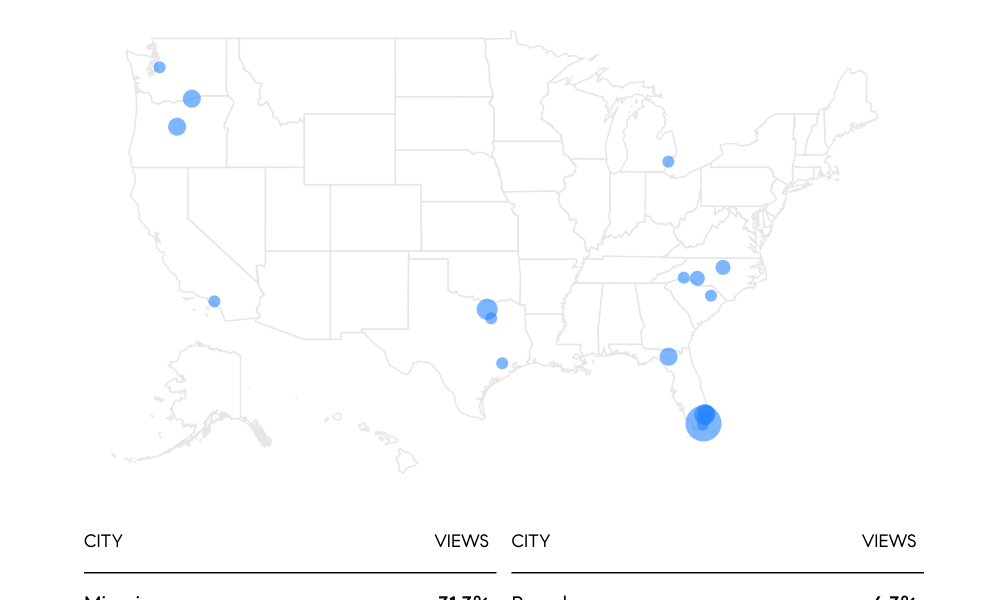
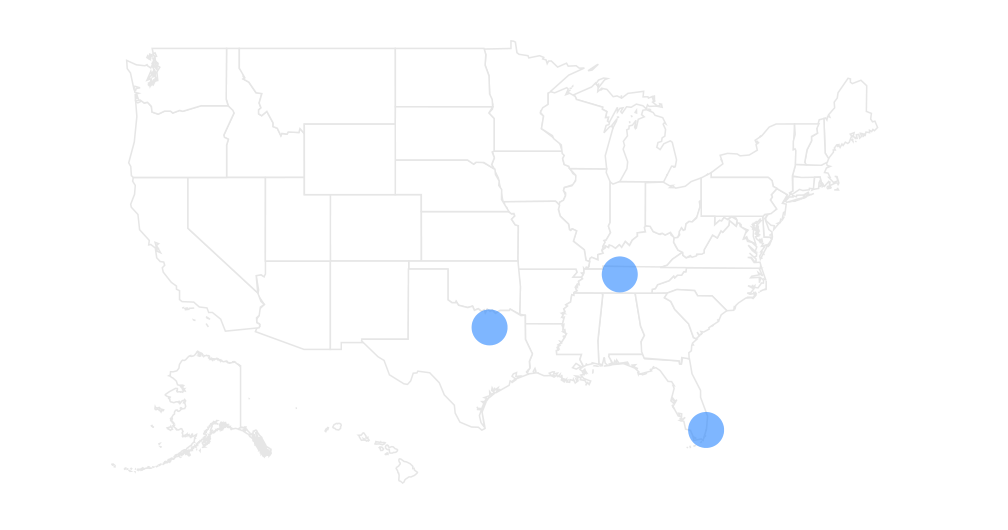
Update Anna Jimenez 12040 SW 10th Ter (Oct 21-27, 2026): DOM 13, 3 showings, Spanish feedback, updated map, social 0

diff --git a/12040-sw-10th-ter/index.html b/12040-sw-10th-ter/index.html
@@ -102,7 +102,7 @@
                 <div class="meta-item">Miami, FL 33184 | MLS #A12106377 | $607,000</div>
                 <div class="meta-item">
                     <svg width="16" height="16" viewBox="0 0 24 24" fill="none" stroke="currentColor" stroke-width="2"><rect x="3" y="4" width="18" height="18" rx="2"/><path d="M16 2v4M8 2v4M3 10h18"/></svg>
-                    Período del Reporte: 12 Oct 2026 - 18 Oct 2026</div>
+                    Período del Reporte: 21 Oct 2026 - 27 Oct 2026</div>
             </div>
         </div>
         <div class="theme-toggle" onclick="toggleTheme()" title="Toggle Dark/Light Mode">
@@ -125,21 +125,21 @@
                 <div class="card">
                     <div class="card-label">Vistas Últimos 7 Días</div>
                     <div class="card-value">
-                        +839
+                        +420
                         <span class="card-change">Actualizado</span>
                     </div>
                 </div>
                 <div class="card">
                     <div class="card-label">Visitas Últimos 7 Días</div>
                     <div class="card-value">
-                        +1
+                        +3
                         <span class="card-change">Esta Semana</span>
                     </div>
                 </div>
                 <div class="card">
                     <div class="card-label">Días en el Mercado</div>
                     <div class="card-value">
-                        6
+                        13
                     </div>
                 </div>
             </div>
@@ -156,22 +156,22 @@
                 </div>
                 <div class="table-row">
                     <div class="metric-name">Vistas del Anuncio (En línea)</div>
-                    <div class="last-7">+839</div>
-                    <div class="grand-total">839</div>
+                    <div class="last-7">+420</div>
+                    <div class="grand-total">1,259</div>
                 </div>
                 <div class="table-row">
                     <div class="metric-name">Visitas Presenciales</div>
-                    <div class="last-7">+1</div>
-                    <div class="grand-total">1</div>
+                    <div class="last-7">+3</div>
+                    <div class="grand-total">4</div>
                 </div>
                 <div class="table-row">
                     <div class="metric-name">Correos Enviados (Abiertos)</div>
-                    <div class="last-7">+7,343</div>
-                    <div class="grand-total">7,343</div>
+                    <div class="last-7">+8,229</div>
+                    <div class="grand-total">15,572</div>
                 </div>
                 <div class="table-row">
                     <div class="metric-name">Vistas en Redes Sociales</div>
-                    <div class="last-7">+245</div>
+                    <div class="last-7">+0</div>
                     <div class="grand-total">245</div>
                 </div>
             </div>
@@ -183,7 +183,13 @@
                 <h2>Comentarios de Clientes y Agentes</h2>
             </div>
             <div class="card">
-                <div class="feedback-item">
+                                <div class="feedback-item">
+                    <div class="feedback-text">
+                        "Todos los visitantes comentaron que tener un dormitorio y un baño completo en la planta baja es una gran ventaja de la propiedad. Les gustó no tener vecinos en la parte trasera y destacaron que el patio es más amplio de lo esperado. En cuanto a dos de las familias que están evaluando opciones en varias zonas, una sintió que faltaban ventanas, mientras que la del sábado comentó que lo que les detiene es el costo de las renovaciones (el esposo no realiza trabajos manuales y deseaban una cocina más amplia). Compartí varias ideas y destaqué el ahorro que ofrece la propiedad. Sigue siendo una de las principales opciones para ellos."
+                        <span class="agent-date" style="display: block; margin-top: 0.5rem; font-style: normal; color: var(--text-muted); font-size: 0.85rem;">— 21 Oct - 27 Oct, 2026</span>
+                    </div>
+                </div>
+<div class="feedback-item">
                     <div class="feedback-text">
                         "Una visita la semana pasada. Al comprador potencial le gustó el espacio del patio trasero, señalando que era más grande de lo esperado, y elogió lo bien cuidada que está la casa. Sin embargo, comentó que necesitaba más espacio en el área familiar y mayor luz natural."
                         <span class="agent-date" style="display: block; margin-top: 0.5rem; font-style: normal; color: var(--text-muted); font-size: 0.85rem;">— Oct 12 - Oct 18, 2026</span>
@@ -198,24 +204,15 @@
                 <h2>Desde Dónde Visualizan la Propiedad</h2>
             </div>
             <div class="card">
-                <img src="property_views_map_clean.png?v=20261020_v1"
+                <img src="property_views_map_clean.png?v=20261028_v1"
                      alt="Visitor Locations Map"
                      style="width:100%; border-radius: 8px;"
                      onerror="this.style.display='none'; this.nextElementSibling.style.display='block'">
                 <div style="display:none; background: rgba(0,0,0,0.05); padding: 3rem; text-align: center; border-radius: 8px; color: var(--text-muted);"><em>Mapa no disponible</em></div>
                 <div class="city-stats-grid" style="display: grid; grid-template-columns: 1fr 1fr; gap: 2rem; margin-top: 2rem; padding-top: 2rem; border-top: 1px solid var(--border);">
-                    <div style="display: flex; justify-content: space-between; padding: 0.5rem 0; border-bottom: 1px solid rgba(0,0,0,0.05);"><span style="font-weight: 600;">Miami</span><span style="color: var(--accent); font-weight: 700;">31.3%</span></div>
-                    <div style="display: flex; justify-content: space-between; padding: 0.5rem 0; border-bottom: 1px solid rgba(0,0,0,0.05);"><span style="font-weight: 600;">Tamarac</span><span style="color: var(--accent); font-weight: 700;">7.8%</span></div>
-                    <div style="display: flex; justify-content: space-between; padding: 0.5rem 0; border-bottom: 1px solid rgba(0,0,0,0.05);"><span style="font-weight: 600;">Aubrey</span><span style="color: var(--accent); font-weight: 700;">7.8%</span></div>
-                    <div style="display: flex; justify-content: space-between; padding: 0.5rem 0; border-bottom: 1px solid rgba(0,0,0,0.05);"><span style="font-weight: 600;">Prineville</span><span style="color: var(--accent); font-weight: 700;">6.3%</span></div>
-                    <div style="display: flex; justify-content: space-between; padding: 0.5rem 0; border-bottom: 1px solid rgba(0,0,0,0.05);"><span style="font-weight: 600;">Pompano Beach</span><span style="color: var(--accent); font-weight: 700;">6.3%</span></div>
-                    <div style="display: flex; justify-content: space-between; padding: 0.5rem 0; border-bottom: 1px solid rgba(0,0,0,0.05);"><span style="font-weight: 600;">Live Oak</span><span style="color: var(--accent); font-weight: 700;">6.3%</span></div>
-                    <div style="display: flex; justify-content: space-between; padding: 0.5rem 0; border-bottom: 1px solid rgba(0,0,0,0.05);"><span style="font-weight: 600;">Boardman</span><span style="color: var(--accent); font-weight: 700;">6.3%</span></div>
-                    <div style="display: flex; justify-content: space-between; padding: 0.5rem 0; border-bottom: 1px solid rgba(0,0,0,0.05);"><span style="font-weight: 600;">Durham</span><span style="color: var(--accent); font-weight: 700;">4.7%</span></div>
-                    <div style="display: flex; justify-content: space-between; padding: 0.5rem 0; border-bottom: 1px solid rgba(0,0,0,0.05);"><span style="font-weight: 600;">Charlotte</span><span style="color: var(--accent); font-weight: 700;">3.1%</span></div>
-                    <div style="display: flex; justify-content: space-between; padding: 0.5rem 0; border-bottom: 1px solid rgba(0,0,0,0.05);"><span style="font-weight: 600;">Boca Raton</span><span style="color: var(--accent); font-weight: 700;">3.1%</span></div>
-                    <div style="display: flex; justify-content: space-between; padding: 0.5rem 0; border-bottom: 1px solid rgba(0,0,0,0.05);"><span style="font-weight: 600;">Renton</span><span style="color: var(--accent); font-weight: 700;">1.6%</span></div>
-                    <div style="display: flex; justify-content: space-between; padding: 0.5rem 0; border-bottom: 1px solid rgba(0,0,0,0.05);"><span style="font-weight: 600;">Pembroke Pines</span><span style="color: var(--accent); font-weight: 700;">1.6%</span></div>
+                    <div style="display: flex; justify-content: space-between; padding: 0.5rem 0; border-bottom: 1px solid rgba(0,0,0,0.05);"><span style="font-weight: 600;">Nashville</span><span style="color: var(--accent); font-weight: 700;">33.3%</span></div>
+                    <div style="display: flex; justify-content: space-between; padding: 0.5rem 0; border-bottom: 1px solid rgba(0,0,0,0.05);"><span style="font-weight: 600;">Miami Beach</span><span style="color: var(--accent); font-weight: 700;">33.3%</span></div>
+                    <div style="display: flex; justify-content: space-between; padding: 0.5rem 0; border-bottom: 1px solid rgba(0,0,0,0.05);"><span style="font-weight: 600;">Dallas</span><span style="color: var(--accent); font-weight: 700;">33.3%</span></div>
                 </div>
             </div>
         </div>
@@ -227,7 +224,7 @@
             <p>Compass One | (305) 322-3223 | anna.jimenez@compass.com</p>
         </div>
         <div class="footer-note">
-            Generado el 20 de Octubre de 2026. Datos obtenidos de Compass Insights y comentarios de visitas.
+            Generado el 28 de Octubre de 2026. Datos obtenidos de Compass Insights y comentarios de visitas.
         </div>
     </footer>
 

diff --git a/agents/anna-jimenez/12040-sw-10th-ter/index.html b/agents/anna-jimenez/12040-sw-10th-ter/index.html
@@ -102,7 +102,7 @@
                 <div class="meta-item">Miami, FL 33184 | MLS #A12106377 | $607,000</div>
                 <div class="meta-item">
                     <svg width="16" height="16" viewBox="0 0 24 24" fill="none" stroke="currentColor" stroke-width="2"><rect x="3" y="4" width="18" height="18" rx="2"/><path d="M16 2v4M8 2v4M3 10h18"/></svg>
-                    Período del Reporte: 12 Oct 2026 - 18 Oct 2026</div>
+                    Período del Reporte: 21 Oct 2026 - 27 Oct 2026</div>
             </div>
         </div>
         <div class="theme-toggle" onclick="toggleTheme()" title="Toggle Dark/Light Mode">
@@ -125,21 +125,21 @@
                 <div class="card">
                     <div class="card-label">Vistas Últimos 7 Días</div>
                     <div class="card-value">
-                        +839
+                        +420
                         <span class="card-change">Actualizado</span>
                     </div>
                 </div>
                 <div class="card">
                     <div class="card-label">Visitas Últimos 7 Días</div>
                     <div class="card-value">
-                        +1
+                        +3
                         <span class="card-change">Esta Semana</span>
                     </div>
                 </div>
                 <div class="card">
                     <div class="card-label">Días en el Mercado</div>
                     <div class="card-value">
-                        6
+                        13
                     </div>
                 </div>
             </div>
@@ -156,22 +156,22 @@
                 </div>
                 <div class="table-row">
                     <div class="metric-name">Vistas del Anuncio (En línea)</div>
-                    <div class="last-7">+839</div>
-                    <div class="grand-total">839</div>
+                    <div class="last-7">+420</div>
+                    <div class="grand-total">1,259</div>
                 </div>
                 <div class="table-row">
                     <div class="metric-name">Visitas Presenciales</div>
-                    <div class="last-7">+1</div>
-                    <div class="grand-total">1</div>
+                    <div class="last-7">+3</div>
+                    <div class="grand-total">4</div>
                 </div>
                 <div class="table-row">
                     <div class="metric-name">Correos Enviados (Abiertos)</div>
-                    <div class="last-7">+7,343</div>
-                    <div class="grand-total">7,343</div>
+                    <div class="last-7">+8,229</div>
+                    <div class="grand-total">15,572</div>
                 </div>
                 <div class="table-row">
                     <div class="metric-name">Vistas en Redes Sociales</div>
-                    <div class="last-7">+245</div>
+                    <div class="last-7">+0</div>
                     <div class="grand-total">245</div>
                 </div>
             </div>
@@ -183,7 +183,13 @@
                 <h2>Comentarios de Clientes y Agentes</h2>
             </div>
             <div class="card">
-                <div class="feedback-item">
+                                <div class="feedback-item">
+                    <div class="feedback-text">
+                        "Todos los visitantes comentaron que tener un dormitorio y un baño completo en la planta baja es una gran ventaja de la propiedad. Les gustó no tener vecinos en la parte trasera y destacaron que el patio es más amplio de lo esperado. En cuanto a dos de las familias que están evaluando opciones en varias zonas, una sintió que faltaban ventanas, mientras que la del sábado comentó que lo que les detiene es el costo de las renovaciones (el esposo no realiza trabajos manuales y deseaban una cocina más amplia). Compartí varias ideas y destaqué el ahorro que ofrece la propiedad. Sigue siendo una de las principales opciones para ellos."
+                        <span class="agent-date" style="display: block; margin-top: 0.5rem; font-style: normal; color: var(--text-muted); font-size: 0.85rem;">— 21 Oct - 27 Oct, 2026</span>
+                    </div>
+                </div>
+<div class="feedback-item">
                     <div class="feedback-text">
                         "Una visita la semana pasada. Al comprador potencial le gustó el espacio del patio trasero, señalando que era más grande de lo esperado, y elogió lo bien cuidada que está la casa. Sin embargo, comentó que necesitaba más espacio en el área familiar y mayor luz natural."
                         <span class="agent-date" style="display: block; margin-top: 0.5rem; font-style: normal; color: var(--text-muted); font-size: 0.85rem;">— Oct 12 - Oct 18, 2026</span>
@@ -198,24 +204,15 @@
                 <h2>Desde Dónde Visualizan la Propiedad</h2>
             </div>
             <div class="card">
-                <img src="property_views_map_clean.png?v=20261020_v1"
+                <img src="property_views_map_clean.png?v=20261028_v1"
                      alt="Visitor Locations Map"
                      style="width:100%; border-radius: 8px;"
                      onerror="this.style.display='none'; this.nextElementSibling.style.display='block'">
                 <div style="display:none; background: rgba(0,0,0,0.05); padding: 3rem; text-align: center; border-radius: 8px; color: var(--text-muted);"><em>Mapa no disponible</em></div>
                 <div class="city-stats-grid" style="display: grid; grid-template-columns: 1fr 1fr; gap: 2rem; margin-top: 2rem; padding-top: 2rem; border-top: 1px solid var(--border);">
-                    <div style="display: flex; justify-content: space-between; padding: 0.5rem 0; border-bottom: 1px solid rgba(0,0,0,0.05);"><span style="font-weight: 600;">Miami</span><span style="color: var(--accent); font-weight: 700;">31.3%</span></div>
-                    <div style="display: flex; justify-content: space-between; padding: 0.5rem 0; border-bottom: 1px solid rgba(0,0,0,0.05);"><span style="font-weight: 600;">Tamarac</span><span style="color: var(--accent); font-weight: 700;">7.8%</span></div>
-                    <div style="display: flex; justify-content: space-between; padding: 0.5rem 0; border-bottom: 1px solid rgba(0,0,0,0.05);"><span style="font-weight: 600;">Aubrey</span><span style="color: var(--accent); font-weight: 700;">7.8%</span></div>
-                    <div style="display: flex; justify-content: space-between; padding: 0.5rem 0; border-bottom: 1px solid rgba(0,0,0,0.05);"><span style="font-weight: 600;">Prineville</span><span style="color: var(--accent); font-weight: 700;">6.3%</span></div>
-                    <div style="display: flex; justify-content: space-between; padding: 0.5rem 0; border-bottom: 1px solid rgba(0,0,0,0.05);"><span style="font-weight: 600;">Pompano Beach</span><span style="color: var(--accent); font-weight: 700;">6.3%</span></div>
-                    <div style="display: flex; justify-content: space-between; padding: 0.5rem 0; border-bottom: 1px solid rgba(0,0,0,0.05);"><span style="font-weight: 600;">Live Oak</span><span style="color: var(--accent); font-weight: 700;">6.3%</span></div>
-                    <div style="display: flex; justify-content: space-between; padding: 0.5rem 0; border-bottom: 1px solid rgba(0,0,0,0.05);"><span style="font-weight: 600;">Boardman</span><span style="color: var(--accent); font-weight: 700;">6.3%</span></div>
-                    <div style="display: flex; justify-content: space-between; padding: 0.5rem 0; border-bottom: 1px solid rgba(0,0,0,0.05);"><span style="font-weight: 600;">Durham</span><span style="color: var(--accent); font-weight: 700;">4.7%</span></div>
-                    <div style="display: flex; justify-content: space-between; padding: 0.5rem 0; border-bottom: 1px solid rgba(0,0,0,0.05);"><span style="font-weight: 600;">Charlotte</span><span style="color: var(--accent); font-weight: 700;">3.1%</span></div>
-                    <div style="display: flex; justify-content: space-between; padding: 0.5rem 0; border-bottom: 1px solid rgba(0,0,0,0.05);"><span style="font-weight: 600;">Boca Raton</span><span style="color: var(--accent); font-weight: 700;">3.1%</span></div>
-                    <div style="display: flex; justify-content: space-between; padding: 0.5rem 0; border-bottom: 1px solid rgba(0,0,0,0.05);"><span style="font-weight: 600;">Renton</span><span style="color: var(--accent); font-weight: 700;">1.6%</span></div>
-                    <div style="display: flex; justify-content: space-between; padding: 0.5rem 0; border-bottom: 1px solid rgba(0,0,0,0.05);"><span style="font-weight: 600;">Pembroke Pines</span><span style="color: var(--accent); font-weight: 700;">1.6%</span></div>
+                    <div style="display: flex; justify-content: space-between; padding: 0.5rem 0; border-bottom: 1px solid rgba(0,0,0,0.05);"><span style="font-weight: 600;">Nashville</span><span style="color: var(--accent); font-weight: 700;">33.3%</span></div>
+                    <div style="display: flex; justify-content: space-between; padding: 0.5rem 0; border-bottom: 1px solid rgba(0,0,0,0.05);"><span style="font-weight: 600;">Miami Beach</span><span style="color: var(--accent); font-weight: 700;">33.3%</span></div>
+                    <div style="display: flex; justify-content: space-between; padding: 0.5rem 0; border-bottom: 1px solid rgba(0,0,0,0.05);"><span style="font-weight: 600;">Dallas</span><span style="color: var(--accent); font-weight: 700;">33.3%</span></div>
                 </div>
             </div>
         </div>
@@ -227,7 +224,7 @@
             <p>Compass One | (305) 322-3223 | anna.jimenez@compass.com</p>
         </div>
         <div class="footer-note">
-            Generado el 20 de Octubre de 2026. Datos obtenidos de Compass Insights y comentarios de visitas.
+            Generado el 28 de Octubre de 2026. Datos obtenidos de Compass Insights y comentarios de visitas.
         </div>
     </footer>
 

diff --git a/index.html b/index.html
@@ -28,7 +28,7 @@
         </a>
         <a href="agents/anna-jimenez/index.html" class="card">
             <h3>Anna Jimenez</h3>
-            <p>1 Active Listings &#8594;</p>
+            <p>2 Active Listings &#8594;</p>
         </a>
         <a href="agents/carlos-rospigliosi/index.html" class="card">
             <h3>Carlos Rospigliosi</h3>
